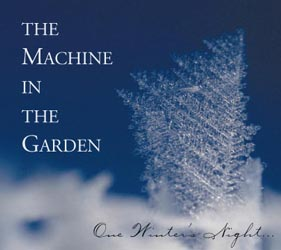
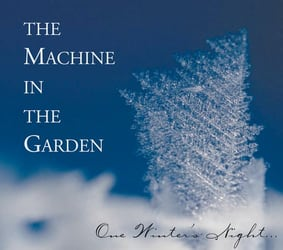
improved album images

diff --git a/winters.php b/winters.php
@@ -4,11 +4,11 @@
 	'og:upc'=>'685879999923',
 	'og:url'=>'https://www.tmitg.com/winters.php',
 	'og:description'=>'the Machine in the Garden \'One Winter\'s Night...\' is the band\'s third studio album.',
-	'og:image'=>'https://www.tmitg.com/albums/winters700.jpg',
+	'og:image'=>'https://www.tmitg.com/albums/wintersOG.jpg',
 	'og:image:alt'=>'Album cover artwork for the Machine in the Garden One Winter\'s Night',
 	'og:image:type'=>'image/jpeg',
-	'og:image:width'=>'700',
-	'og:image:height'=>'700',
+	'og:image:width'=>'1200',
+	'og:image:height'=>'1060',
 ); ?>
 <!DOCTYPE html>
 <html	lang="en" 
@@ -58,7 +58,12 @@
 
 <!-- this is the display table for the CD and info -->
 <section id="discog_albuminfo" tabindex="-1">
-    <div><img src="albums/winters.jpg" width="281" height="250" alt="One Winter's Night (1999) album cover — the Machine in the Garden" class="albumimg" itemprop="image" /></div>
+    <div>
+		<picture>
+			<source srcset="albums/winters500.jpg 2x">
+	    		<img src="albums/winters.jpg" width="283" height="250" alt="One Winter's Night (1999) album cover — the Machine in the Garden" class="albumimg" itemprop="image" />
+		</picture>
+    </div>
 	<h1 itemprop="name">One Winter's Night&hellip;</h1>
 	<p itemprop="abstract"><em>This album hones the band’s sound in a more ethereal direction, merging intricate musical structures with emotional lyrics.</em></p>
 

diff --git a/music.php b/music.php
@@ -315,7 +315,7 @@
 
 	<div class="songs own" id="own" role="tabpanel" tabindex="0" aria-labelledby="owntab">
 		<div class="albumcol">
-			<p><a href="winters.php"><img src="albums/winters.jpg" width="224" height="200" class="cover" alt="more information about One Winter's Night..."></a></p>
+			<p><a href="winters.php"><img src="albums/winters.jpg" width="226" height="200" class="cover" alt="more information about One Winter's Night..."></a></p>
 		</div>
 		<div class="listwrap">
 			<div class="audiocol">
